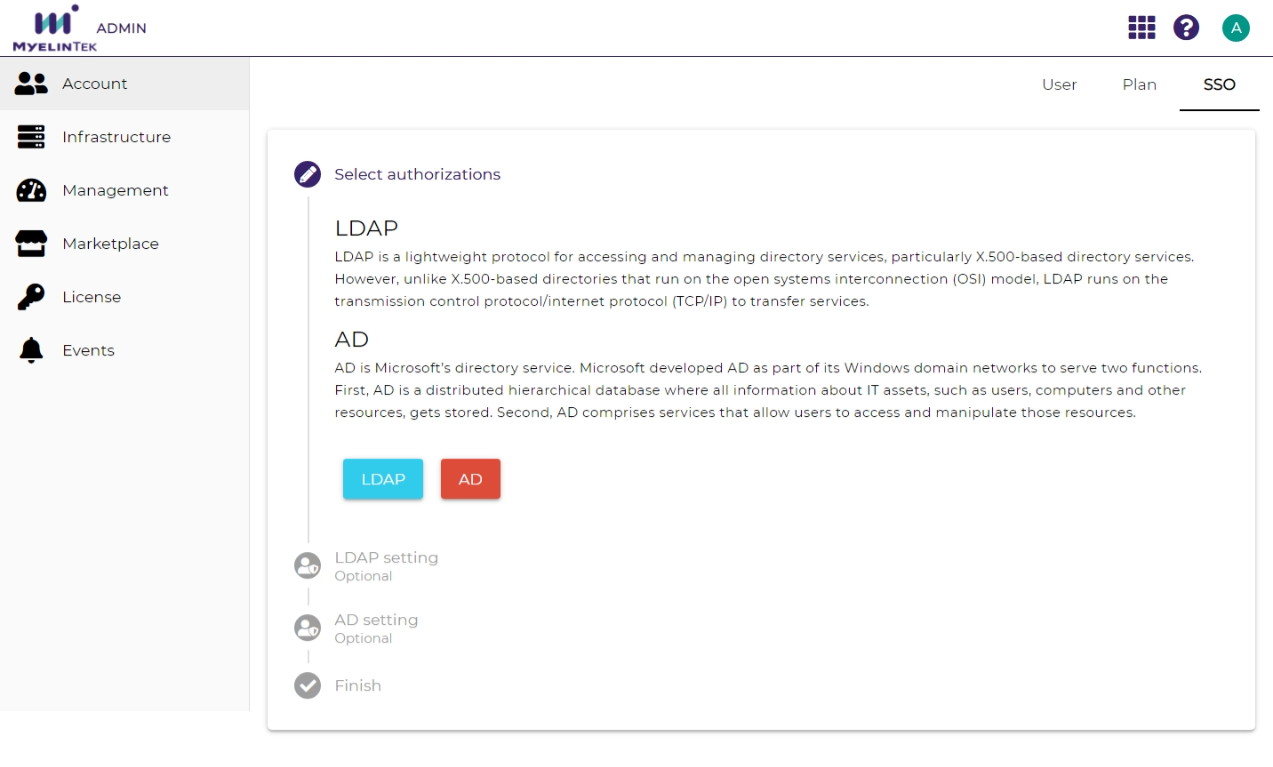
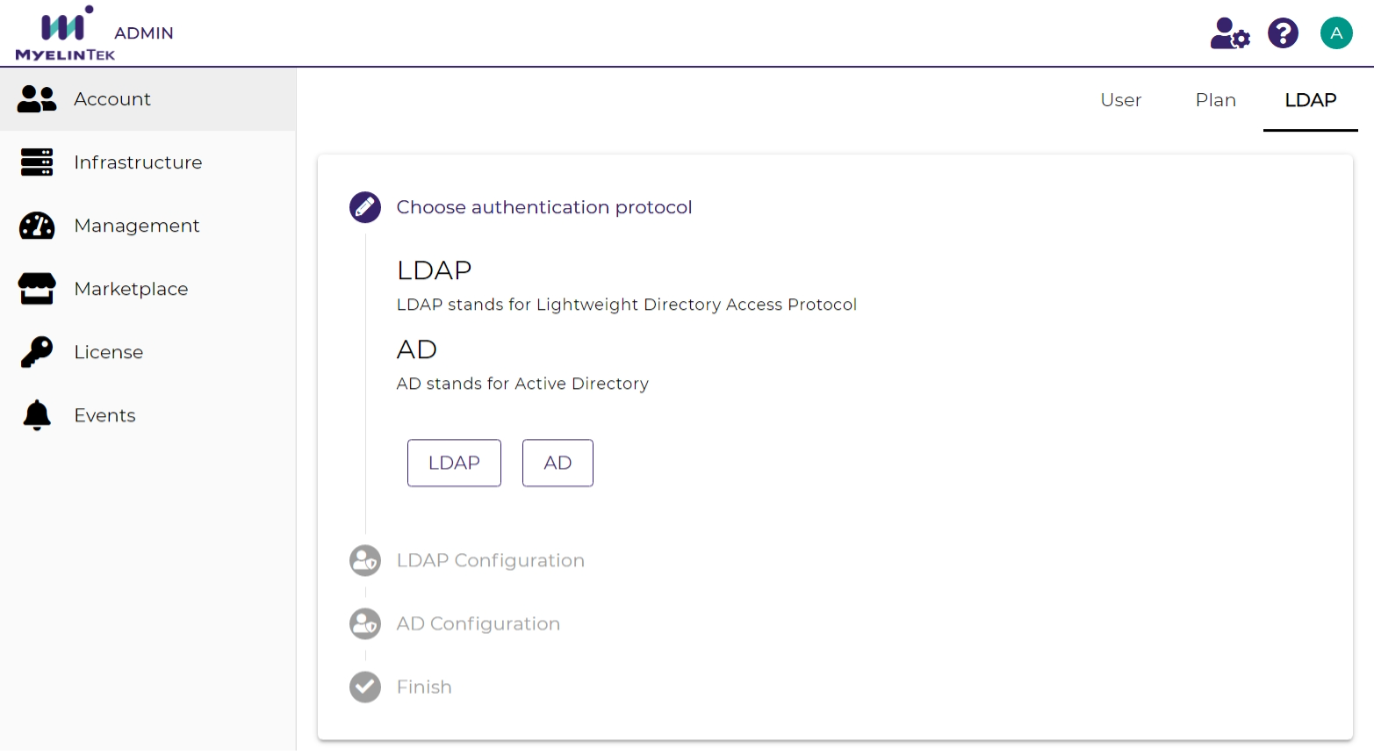
Update the account page

diff --git a/administration/account.rst b/administration/account.rst
@@ -9,10 +9,10 @@ The *User* tab lists the registered MLSteam users.
 
 * Name: displayed name
 * Account: login account
-* Password: login password
-* Role: user role. Could be *Admin* (system maintainer) or *Developer* (deep learning developer)
+* Role: user role. Could be *Admin* (system maintainer) or *Developer* (ML developer)
 * Plan: resource limitation plan for running the user's owning labs
-* From: account type. Could be *MLSteam* (managed by MLSteam), *LDAP* (managed by LDAP), or *AD* (managed by AD)
+* Authentication: authentication type.
+  Could be *MLSteam* (managed by MLSteam), *LDAP* (managed by LDAP), or *AD* (managed by AD)
 
 .. image:: /_static/imgs/administration/account/view_users.png
     :width: 600
@@ -35,7 +35,7 @@ To create a user:
 
         .. note::
             Set ``0`` to disable storage usage limitation
-        
+
 #) Click on the *CREATE* button.
 
     .. image:: /_static/imgs/administration/account/add_user_1.png
@@ -56,7 +56,7 @@ To delete a user:
 
 .. warning::
     On deleting a user:
-    
+
     #) Its access to the MLSteam system and to the projects will be removed.
     #) All artifacts (such as projects, labs, and pipelines) owned by that user will be deleted.
 
@@ -120,7 +120,7 @@ To delete a resource limitation plan:
 Integrate LDAP/AD
 =================
 
-The *SSO* tab manages integration of remote authentication.
+The *LDAP* tab manages integration of remote authentication.
 
 To enable remote user authentication, set up an LDAP or AD server here.
 
@@ -136,9 +136,10 @@ To set up LDAP authentication:
     .. image:: /_static/imgs/administration/account/setup_ldap_1.png
         :width: 600
 
-To set up AD authentication:
+..
+    To set up AD authentication:
 
-TODO: AD
+    TODO: AD
 
 .. note::
     #) You could set up either *LDAP* or *AD* (but not both) for remote authentication.
